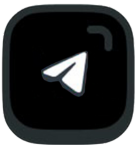
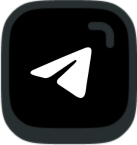
ajfs

diff --git a/index.html b/index.html
@@ -26,7 +26,7 @@
                         <a href="#tokenomics">Tokenomics</a>
                         <a href="#how-to-buy">How to buy</a>
                     </nav>
-                    <a class="header__btn btn" href="https://pump.fun/board">
+                    <a class="header__btn btn" href="https://pump.fun/FyBKMEaktbTwoc1vYxv6ZVn4JKfvGPbcsn6ikGLLpump">
                         <img src="/images/money-bag.svg" alt="">Buy me
                     </a>
                 </div>
@@ -51,7 +51,7 @@
                             <a class="hero__social" href="https://x.com/ScratOnSol" target="_blank">
                                 <img src="/images/twitter.png" alt="">
                             </a>
-                            <a class="hero__social" href="https://pump.fun/board" target="_blank">
+                            <a class="hero__social" href="https://pump.fun/FyBKMEaktbTwoc1vYxv6ZVn4JKfvGPbcsn6ikGLLpump" target="_blank">
                                 <img src="/images/pmp2.png" alt="">
                             </a>
                         </div>
@@ -135,7 +135,7 @@
                                 <img src="/images/twitter_1.png" alt="">
                             </a>
                             <a class="find__item" href="https://t.me/SCRATonSOLANA" target="_blank">
-                                <img src="/images/telegram_1.png" alt="">
+                                <img src="/images/tlggg2.png" alt="">
                             </a>
                             <!-- <a class="find__item" href="https://www.instagram.com/scrat_meme/" target="_blank">
                                 <img src="/images/instagram_1.png" alt="">
@@ -155,7 +155,7 @@
                             <!-- <a class="find__item" href="https://www.coingecko.com/en/coins/scrat" target="_blank">
                                 <img src="/images/coingecko.png" alt="">
                             </a> -->
-                            <a class="find__item" href="https://pump.fun/board" target="_blank">
+                            <a class="find__item" href="https://pump.fun/FyBKMEaktbTwoc1vYxv6ZVn4JKfvGPbcsn6ikGLLpump" target="_blank">
                                 <img src="/images/PUMPP.png" alt="">
                             </a>
                             <!-- <a class="find__item" href="https://www.okx.com/web3/dex-swap#inputChain=501&inputCurrency=11111111111111111111111111111111&outputChain=501&outputCurrency=3GEznP41VaAGv9yRdBiuYdA8zkffNc8b7DzNJgFbH4Kh" target="_blank">
@@ -195,7 +195,7 @@
                         <div class="tokenomics__contract contract">
                             <div>
                                 <span class="contract__label">Contract address</span>
-                                <span class="contract__value">XXX</span>
+                                <span class="contract__value">FyBKMEaktbTwoc1vYxv6ZVn4JKfvGPbcsn6ikGLLpump</span>
                             </div>
                             <button class="contract__btn">
                                 <svg width="20" height="20" viewBox="0 0 20 21" fill="none" xmlns="http://www.w3.org/2000/svg">
@@ -514,12 +514,12 @@
                                     <a class="footer__social" href="https://x.com/ScratOnSol" target="_blank">
                                         <img src="/images/twitter.png" alt="">
                                     </a>
-                                    <a class="footer__social" href="https://pump.fun/board" target="_blank">
+                                    <a class="footer__social" href="https://pump.fun/FyBKMEaktbTwoc1vYxv6ZVn4JKfvGPbcsn6ikGLLpump" target="_blank">
                                         <img src="/images/pmp2.png" alt="">
                                     </a>
                                 </div>
                             </div>
-                            <a class="footer__btn" href="https://pump.fun/board" target="_blank">
+                            <a class="footer__btn" href="https://pump.fun/FyBKMEaktbTwoc1vYxv6ZVn4JKfvGPbcsn6ikGLLpump" target="_blank">
                                 <img src="/images/money-bag.svg" alt="">Buy me
                             </a>
                         </div>
